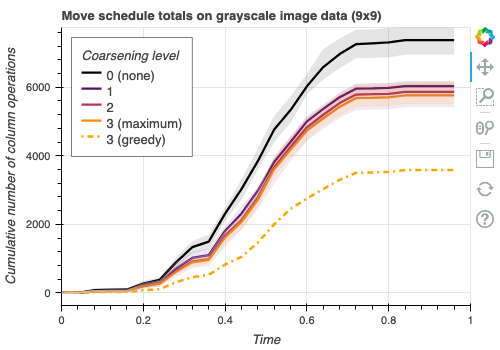
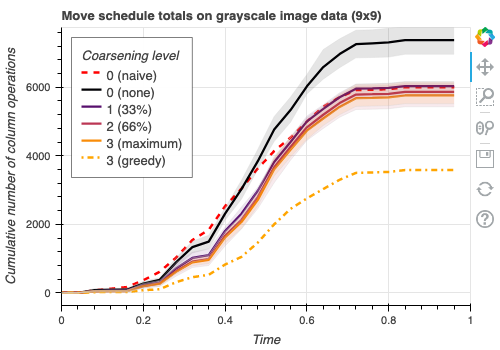
coarsening pictures

diff --git a/examples/image_complex.py b/examples/image_complex.py
@@ -164,12 +164,16 @@ for n in range(5,13):
     stats = { k : [] for k,x in move_stats(reset=True).items() }
     for radius in np.linspace(0, 1, num=n_time_pts):
       fv = C(radius).flatten()
-      update_lower_star(K, R, V, f=lambda s: max(fv[s]), coarsen=cf, method="greedy")
+      update_lower_star(K, R, V, f=lambda s: max(fv[s]), coarsen=cf, method="random")
       for k,v in move_stats().items():
         stats[k].extend([v])
     OPS_MOVES_ND[(cc,n)] = stats
-    print(cc)
+    #print(cc)
+  print(n)
 
+# import pickle
+# with open('OPS_MODES_ND.pickle', 'wb') as handle:
+#   pickle.dump(OPS_MOVES_ND, handle, protocol=pickle.HIGHEST_PROTOCOL)
 
 
 
@@ -209,15 +213,21 @@ for cc, cf in enumerate(np.linspace(0, 1, 6)):
 
 ## Greedy strategy 
 K,R,V = init_rv()
-stats = { k : [] for k,x in move_stats(reset=True).items() }
+greedy_stats = { k : [] for k,x in move_stats(reset=True).items() }
 for radius in np.linspace(0, 1, num=n_time_pts):
   fv = C(radius).flatten()
   update_lower_star(K, R, V, f=lambda s: max(fv[s]), method="greedy")
   for k,v in move_stats().items():
-    stats[k].extend([v])
+    greedy_stats[k].extend([v])
 
 ## Naive strategy
-
+K,R,V = init_rv()
+naive_stats = { k : [] for k,x in move_stats(reset=True).items() }
+for radius in np.linspace(0, 1, num=n_time_pts):
+  fv = C(radius).flatten()
+  update_lower_star(K, R, V, f=lambda s: max(fv[s]), method="naive")
+  for k,v in move_stats().items():
+    naive_stats[k].extend([v])
 
 # import pickle
 # with open('coarsening_data.pickle', 'wb') as handle:
@@ -240,9 +250,9 @@ ct4 = np.vstack([calculate_total(OPS_MOVES[(cc,i)]) for cc,i in OPS_MOVES.keys()
 ct5 = np.vstack([calculate_total(OPS_MOVES[(cc,i)]) for cc,i in OPS_MOVES.keys() if cc == 5]).T
 
 
-
+from bokeh import colors
 from bokeh.plotting import figure, show
-from bokeh.models import ColumnDataSource, BasicTickFormatter
+from bokeh.models import ColumnDataSource, BasicTickFormatter, Band
 CT = [ct0,ct1,ct2,ct5] #,ct3,ct4
 
 from pbsig.color import bin_color
@@ -257,11 +267,15 @@ p = figure(
 # p.yaxis.formatter.use_scientific = True 
 p.yaxis.formatter = BasicTickFormatter(use_scientific=True)
 p.output_backend = "svg"
+naive_y = calculate_total(naive_stats)
+p.line(x, naive_y, color="red", line_width=2.5, line_dash="dashed", legend_label="0 (naive)")
 for i, (ct, col) in enumerate(zip(CT, ct_colors)):
   x = np.arange(ct.shape[0])/ct.shape[0]
   col = colors.RGB(*(col*255).astype(int))
   legend_text = f"{i}"
   legend_text = f"{i} (none)" if i == 0 else legend_text
+  legend_text = f"{i} (33%)" if i == 1 else legend_text
+  legend_text = f"{i} (66%)" if i == 2 else legend_text
   legend_text = f"{i} (maximum)" if i == 3 else legend_text
   p.line(x, ct.mean(axis=1), color=col, line_width=2.25, legend_label=legend_text)
   band_source = ColumnDataSource({
@@ -280,7 +294,7 @@ p.legend.border_line_color = "black"
 p.legend.label_height = 10
 p.legend.glyph_height = 10
 p.legend.spacing = 2
-greedy_y = calculate_total(stats)
+greedy_y = calculate_total(greedy_stats)
 p.line(x, greedy_y, color="orange", line_width=2.5, line_dash="dotdash", legend_label="3 (greedy)")
 show(p)
 

diff --git a/src/pbsig/vineyards.py b/src/pbsig/vineyards.py
@@ -794,18 +794,23 @@ def move_schedule(p: Sequence[int], method: str = "nearest", coarsen: float = 1.
 
   Parameters:
     p: word permutation (0-indexed) to sort.
-    method: Heuristic to employ in picking move permutations. One of ['nearest', 'greedy', 'random']. 
+    method: Heuristic to employ in picking move permutations. One of ['nearest', 'greedy', 'random', 'naive']. 
     coarsen: schedule coarsening parameter between [0,1]. A value of 1.0 yields a schedule of minimal size.
     verbose: whether to display the LCS, LIS, the complement set, and the symbol to move at each choice. 
 
   Returns: 
     array of moves (m x 2) where each row (i,j) specifies move_right(i,j) if i < j and move_left(j,i) otherwise 
   """
-  assert isinstance(method, str) and method in ["nearest", "random", "greedy"], f"Invalid schedule heuristic {method}"
+  assert isinstance(method, str) and method in ["nearest", "random", "greedy", "naive"], f"Invalid schedule heuristic {method}"
   assert all(np.sort(p) == np.arange(len(p))), "Invalid permutation; should be arrangement (word permutation) of [0,n-1]"
   assert coarsen >= 0.0 and coarsen <= 1.0, "invalid coarsening parameter"
 
-  ## Prep the LIS, with optional schedule coarsening
+  ## If naive is fine, use insertion sort 
+  if method == "naive":
+    schedule = np.array(_naive_move_schedule(p), dtype=np.int32)
+    return schedule
+
+  ## Otherwise, prep the LIS w/ optional schedule coarsening
   m = len(p)
   lis = np.array(longest_subsequence(p)) 
   d = int(np.ceil(len(lis)*coarsen))

diff --git a/tests/test_moves.py b/tests/test_moves.py
@@ -232,7 +232,8 @@ def test_schedule_naive():
   assert len(_naive_move_schedule(p)) > 0
   assert len(_naive_move_schedule(p)) > 0, "naive moves enacts side effects"
   assert len(_naive_move_schedule(p, right=False)) > 0
-  
+  assert all([i < j for i,j in _naive_move_schedule(p, right=True)])
+  assert all([i > j for i,j in _naive_move_schedule(p, right=False)])
 
 def test_ls_moves():
   from pbsig.vineyards import update_lower_star
